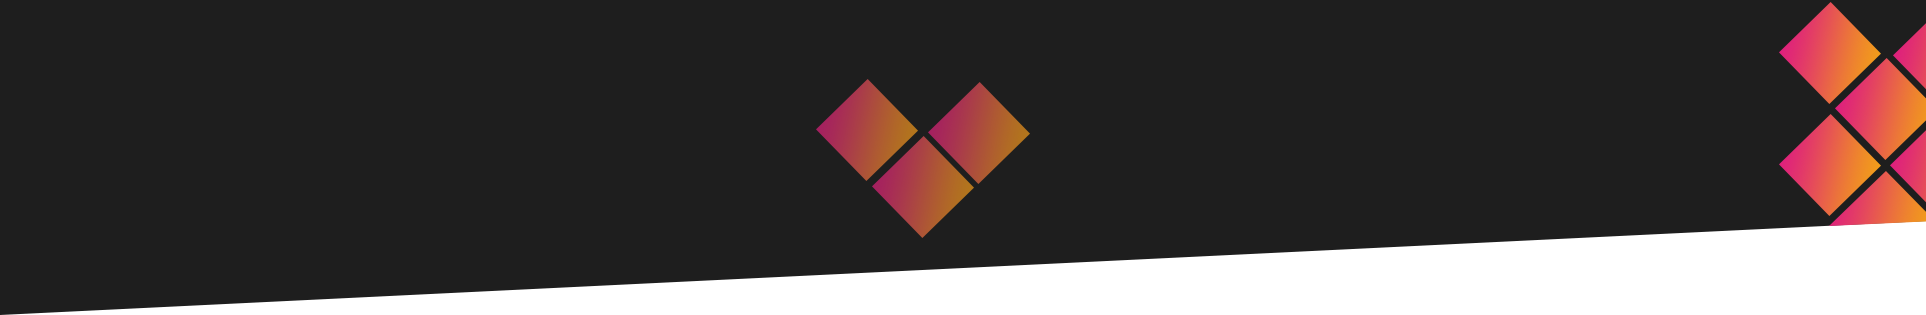
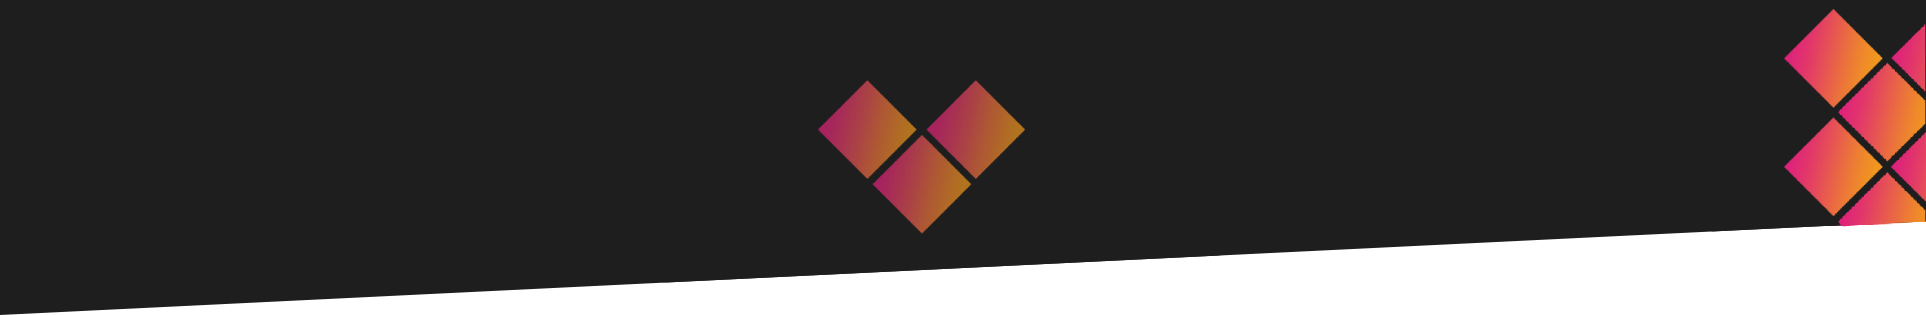
Chore: Ajout des cards sur la page valeurs
- Make Prettier
- Changement images de fond du header
- Correction des conflits
- Close issue #25

diff --git a/public/valeurs.html b/public/valeurs.html
@@ -120,9 +120,9 @@
         </h1>
     </header>
 
-    <section class="mt-12 bg-gray-100 py-8 md:mt-16 xl:mt-24">
-        <div class="encadrement-big flex flex-col gap-x-14 gap-y-5 md:gap-y-16 xxl:flex-row">
-            <div class="mb-16 flex flex-wrap items-center justify-center px-8 md:mb-0 md:flex-nowrap xl:justify-end xxl:w-2/4">
+    <section class="mt-12 md:mt-16 xl:mt-24">
+        <div class="encadrement-big flex flex-col gap-x-10 gap-y-12 md:gap-y-16 lg:flex-row xl:gap-y-24 xxl:gap-x-20">
+            <div class="card card-degrade">
                 <img srcset="build/front/images/humain-sm.webp 160w, build/front/images/humain-lg.webp 224w"
                      sizes="(max-width: 1024px) 160px, 224px"
                      src="build/front/images/humain.png"
@@ -130,19 +130,22 @@
                      alt="L'humain, valeur d'akawaka illustré par une poignée de main"
                      itemprop="image"/>
 
-                <div class="md:ml-16">
-                    <h2 class="mb-4 font-expletus_sans text-base font-semibold normal-case md:text-lg xl:text-xl">Humaine</h2>
+                <div>
+                    <h2 class="font-expletus_sans text-base font-semibold normal-case md:text-lg xl:text-xl">
+                        Humaine</h2>
 
                     <p class="text-principal">
                         <strong>Notre métier évolue chaque jour</strong>
-                        et nous oblige à devoir prendre du temps pour de la réflexion et de la montée en compétence, c'est pourquoi nous attachons une grande importance au bien être quotidien des personnes. En respectant ce temps, nous assurons
+                        et nous oblige à devoir prendre du temps pour de la réflexion et de la montée en compétence,
+                        c'est pourquoi nous attachons une grande importance au bien être quotidien des personnes. En
+                        respectant ce temps, nous assurons
                         <strong>l’employabilité de chacun</strong>
                         et permettons à tout le monde de réussir à relever de nouveaux défis.
                     </p>
                 </div>
             </div>
 
-            <div class="flex flex-wrap items-center justify-center px-8 md:flex-nowrap xl:justify-start xxl:w-2/4">
+            <div class="card card-black">
                 <img srcset="build/front/images/partage-sm.webp 160w, build/front/images/partage-lg.webp 224w"
                      sizes="(max-width: 1024px) 160px, 224px"
                      src="build/front/images/partage3-gris.png"
@@ -150,8 +153,8 @@
                      alt="Le partage, valeur d'akawaka illustré par le symbole du partage"
                      itemprop="image"/>
 
-                <div class="md:ml-16">
-                    <h2 class="mb-4 font-expletus_sans text-base font-semibold normal-case md:text-lg xl:text-xl">
+                <div>
+                    <h2 class="font-expletus_sans text-base font-semibold normal-case md:text-lg xl:text-xl">
                         Partage
                     </h2>
 
@@ -159,16 +162,18 @@
                         Parce que
                         <strong>l’Open Source est fondamental</strong>
                         dans notre métier, nous pensons qu’il est important d’alimenter le cercle
-                        <strong>en partageant notre savoir</strong>. Nous aimons apporter notre pierre à l’édifice grâce à des <strong>contributions au code source</strong>, des animations de conférences locales et nationales ainsi que par le mentorat de juniors et personnes en reconversion.
+                        <strong>en partageant notre savoir</strong>. Nous aimons apporter notre pierre à l’édifice grâce
+                        à des <strong>contributions au code source</strong>, des animations de conférences locales et
+                        nationales ainsi que par le mentorat de juniors et personnes en reconversion.
                     </p>
                 </div>
             </div>
         </div>
     </section>
 
-    <section class="mt-12 bg-gray-100 py-8 md:mt-16 xl:mt-24">
-        <div class="encadrement-big flex flex-col gap-x-14 gap-y-5 md:gap-y-16 xxl:flex-row">
-            <div class="mb-16 flex flex-wrap items-center justify-center px-8 md:mb-0 md:flex-nowrap xl:justify-end xxl:w-2/4">
+    <section class="mt-12 md:mt-16 xl:mt-24">
+        <div class="encadrement-big flex flex-col gap-x-10 gap-y-12 lg:flex-row-reverse md:gap-y-16 lg:flex-row xl:gap-y-24 xxl:gap-x-20">
+            <div class="card card-degrade">
                 <img srcset="build/front/images/ethique-sm.webp 160w, build/front/images/ethique-lg.webp 224w"
                      sizes="(max-width: 1024px) 160px, 224px"
                      src="build/front/images/ethique2-min.png"
@@ -176,8 +181,8 @@
                      alt="L'éthique, valeur d'akawaka illustré par le symbole de la justice"
                      itemprop="image"/>
 
-                <div class="md:ml-16">
-                    <h2 class="mb-4 font-expletus_sans text-base font-semibold normal-case md:text-lg xl:text-xl">
+                <div>
+                    <h2 class="font-expletus_sans text-base font-semibold normal-case md:text-lg xl:text-xl">
                         Éthique
                     </h2>
 
@@ -188,7 +193,7 @@
                 </div>
             </div>
 
-            <div class="flex flex-wrap items-center justify-center px-8 md:flex-nowrap xl:justify-start xxl:w-2/4">
+            <div class="card card-black">
                 <img srcset="build/front/images/qualite-sm.webp 160w, build/front/images/qualite-lg.webp 224w"
                      sizes="(max-width: 1024px) 160px, 224px"
                      src="build/front/images/qualite2-gris.png"
@@ -196,8 +201,8 @@
                      alt="La qualité, valeur d'akawaka illustré par une poignée de main"
                      itemprop="image"/>
 
-                <div class="md:ml-16">
-                    <h2 class="mb-4 font-expletus_sans text-base font-semibold normal-case md:text-lg xl:text-xl">
+                <div>
+                    <h2 class="font-expletus_sans text-base font-semibold normal-case md:text-lg xl:text-xl">
                         Qualité
                     </h2>
 
@@ -205,7 +210,8 @@
                         Parce que chaque projet est important pour nous,
                         <strong>nous accordons une attention particulière</strong>
                         à la
-                        <strong>qualité des services que nous fournissons</strong>. Dans un milieu où les règles changent continuellement, nous misons sur des
+                        <strong>qualité des services que nous fournissons</strong>.
+                        Dans un milieu où les règles changent continuellement, nous misons sur des
                         <strong>architectures techniques évolutives</strong>
                         sur le long terme et la capitalisation du savoir.
                     </p>

diff --git a/public/index.html b/public/index.html
@@ -192,7 +192,8 @@
 
         <div class="col-span-5 lg:col-span-3">
             <header class="flex items-start pb-4 md:items-center md:justify-center">
-                <img src="build/front/images/losange-coupe.svg" class="w-8 md:w-10 xl:w-11"
+                <img src="build/front/images/losange-coupe.svg"
+                     class="w-8 md:w-10 xl:w-11"
                      alt="losange en dégradé avec les couleurs de l'agence akawaka"/>
 
                 <h1 class="titre mt-2.5 -ml-2 md:mt-0 md:-ml-3 xl:-ml-4">
@@ -200,7 +201,10 @@
                 </h1>
             </header>
 
-            <p class="text-principal">Maitriser ses canaux de vente devient de plus en plus important pour les entreprises. Dans le but de donner le maximum de chances à vos projets, nous avons fait le choix d'une solution technique solide, en accord avec l'état de l'art et qui nous permettent de faire tout ce que vous souhaitez.</p>
+            <p class="text-principal">Maitriser ses canaux de vente devient de plus en plus important pour les
+                entreprises. Dans le but de donner le maximum de chances à vos projets, nous avons fait le choix d'une
+                solution technique solide, en accord avec l'état de l'art et qui nous permettent de faire tout ce que
+                vous souhaitez.</p>
 
             <p class="text-principal mt-4">Vous retrouverez chez nous pas moins de 5 experts Sylius sur des projets B2B, B2C et Marketplace.</p>
 
@@ -215,7 +219,8 @@
 
 <article class="largeur hauteur bg-gray-100 text-center">
     <header class="encadrement-big flex items-center pb-4">
-        <img src="build/front/images/losange-coupe.svg" class="losange-h2" alt="losange en dégradé avec les couleurs de l'agence akawaka" />
+        <img src="build/front/images/losange-coupe.svg" class="losange-h2"
+             alt="losange en dégradé avec les couleurs de l'agence akawaka"/>
 
         <h1 class="mt-1 -ml-2 font-trirong text-xl font-bold uppercase tracking-widest md:mt-0 md:-ml-3 md:text-2xl xl:-ml-4 xl:text-3xl">
             Nos outils
@@ -346,7 +351,9 @@
 
         <div class="col-span-5 lg:col-span-3">
             <header class="flex items-center pb-4 md:justify-center">
-                <img src="build/front/images/losange-coupe.svg" class="losange-h2" alt="losange en dégradé avec les couleurs de l'agence akawaka" />
+                <img src="build/front/images/losange-coupe.svg"
+                     class="losange-h2"
+                     alt="losange en dégradé avec les couleurs de l'agence akawaka"/>
 
                 <h1 class="titre mt-1 -ml-2 md:mt-0 md:-ml-3 xl:-ml-4">
                     Notre objectif
@@ -376,7 +383,8 @@
 <article class="largeur hauteur" itemscope itemtype="https://schema.org/WebPage">
     <div class="encadrement-big">
         <header class="flex items-center pb-4">
-            <img src="build/front/images/losange-coupe.svg" class="losange-h2" alt="losange en dégradé avec les couleurs de l'agence akawaka" />
+            <img src="build/front/images/losange-coupe.svg" class="losange-h2"
+                 alt="losange en dégradé avec les couleurs de l'agence akawaka"/>
 
             <h1 class="mt-1 -ml-2 font-trirong text-xl font-bold uppercase tracking-widest md:mt-0 md:-ml-3 md:text-2xl xl:-ml-4 xl:text-3xl">
                 Clients
@@ -454,11 +462,11 @@
             <div class="flex w-14 flex-wrap justify-around md:w-24">
                 <a href="https://www.linkedin.com/company/akawaka/"
                    target="_blank"
-                   class="justify-around"><img
-                    src="build/front/images/linkedin-min.png"
-                    alt="icone linkedin"
-                    title="Logo Linkedin"
-                    class="w-6 md:w-8 xl:w-10"/>
+                   class="justify-around">
+                    <img src="build/front/images/linkedin-min.png"
+                         alt="icone linkedin"
+                         title="Logo Linkedin"
+                         class="w-6 md:w-8 xl:w-10"/>
                 </a>
 
                 <a href="https://twitter.com/akawakaweb?t=vq3fHte09FfFtaaxbyVYVQ&s=09" target="_blank" class="justify-around">

diff --git a/public/mention.html b/public/mention.html
@@ -104,7 +104,8 @@
 <article class="largeur mt-24 md:mt-32 xl:mt-48">
     <div class="encadrement-big">
         <header class="mb-7 flex items-start md:mb-10 md:items-center">
-            <img src="build/front/images/losange-coupe.svg" class="w-8 md:w-10 xl:w-11" alt="losange en dégradé avec les couleurs de l'agence akawaka" />
+            <img src="build/front/images/losange-coupe.svg" class="w-8 md:w-10 xl:w-11"
+                 alt="losange en dégradé avec les couleurs de l'agence akawaka"/>
 
             <h1 class="titre mt-2.5 -ml-2 md:mt-0 md:-ml-3 xl:-ml-4">
                 C'est quoi Akawaka ?
@@ -140,11 +141,13 @@
         <h3 class="mb-7 font-expletus_sans text-base font-bold normal-case md:mb-10 xl:text-xl">Contenus, vie privée et droit d’auteur</h3>
 
         <div class="mb-7 space-y-3 font-hind_guntur text-sm md:mb-10 md:text-lg">
-            <p>Le responsable de la publication est M. Alexandre Balmes, président de la société, joignable par mail : legal@bonjour.akawaka.fr.</p>
+            <p>Le responsable de la publication est M. Alexandre Balmes, président de la société, joignable par mail :
+                legal@bonjour.akawaka.fr.</p>
 
             <p>Ce site ne recueil aucune informations personnelle.</p>
 
-            <p>Les textes et contenus mis à disposition sur ce site sont soumis à la loi Française sur le droit d’auteur.</p>
+            <p>Les textes et contenus mis à disposition sur ce site sont soumis à la loi Française sur le droit
+                d’auteur.</p>
         </div>
     </div>
 </article>

diff --git a/public/services.html b/public/services.html
@@ -37,7 +37,9 @@
     <div class="largeur flex flex-1 items-center justify-between">
         <div class="encadrement-big flex flex-1 items-center justify-between">
             <a href="/">
-                <img src="build/front/images/logo_akawaka_blanc.svg" class="w-28 md:w-28 xl:w-36" alt="logo akawaka agence experte php, symfony, sylius" />
+                <img src="build/front/images/logo_akawaka_blanc.svg"
+                     class="w-28 md:w-28 xl:w-36"
+                     alt="logo akawaka agence experte php, symfony, sylius"/>
             </a>
 
             <nav>
@@ -102,7 +104,8 @@
 <article class="mt-14 h-64 bg-cover bg-auto bg-top bg-no-repeat font-trirong md:mt-20 md:h-72 xl:mt-20 xl:h-80" style="background-image: url(build/front/images/fond_gris_header.png)">
     <div class="largeur flex h-full items-center pb-4">
         <header class="encadrement-big flex items-center">
-            <img src="build/front/images/losange-coupe.svg" class="w-8 md:w-10 xl:w-11" alt="losange en dégradé avec les couleurs de l'agence akawaka" />
+            <img src="build/front/images/losange-coupe.svg" class="w-8 md:w-10 xl:w-11"
+                 alt="losange en dégradé avec les couleurs de l'agence akawaka"/>
 
             <h1 class="txtshadow -ml-3 text-xl font-black uppercase tracking-widest text-white md:text-2xl xl:-ml-5 xl:text-3xl">
                 Nos services

diff --git a/assets/front/app.scss b/assets/front/app.scss
@@ -99,3 +99,19 @@
     .list-services {
         @apply ml-2 text-sm md:text-base xl:text-lg;
     }
+
+    .card {
+        @apply py-8 flex flex-col items-center justify-center px-8 mx-10 xxl:mx-20 xxl:w-2/4 shadow-xl lg:shadow-2xl flex-1;
+
+        &-degrade {
+            @apply bg-white border-b-8 border-solid border-transparent border-gradient-r-rose-orange-white;
+        }
+
+        &-black {
+            @apply bg-white border-b-8 border-gray-700;
+        }
+
+        h2 {
+            @apply my-5;
+        }
+    }
